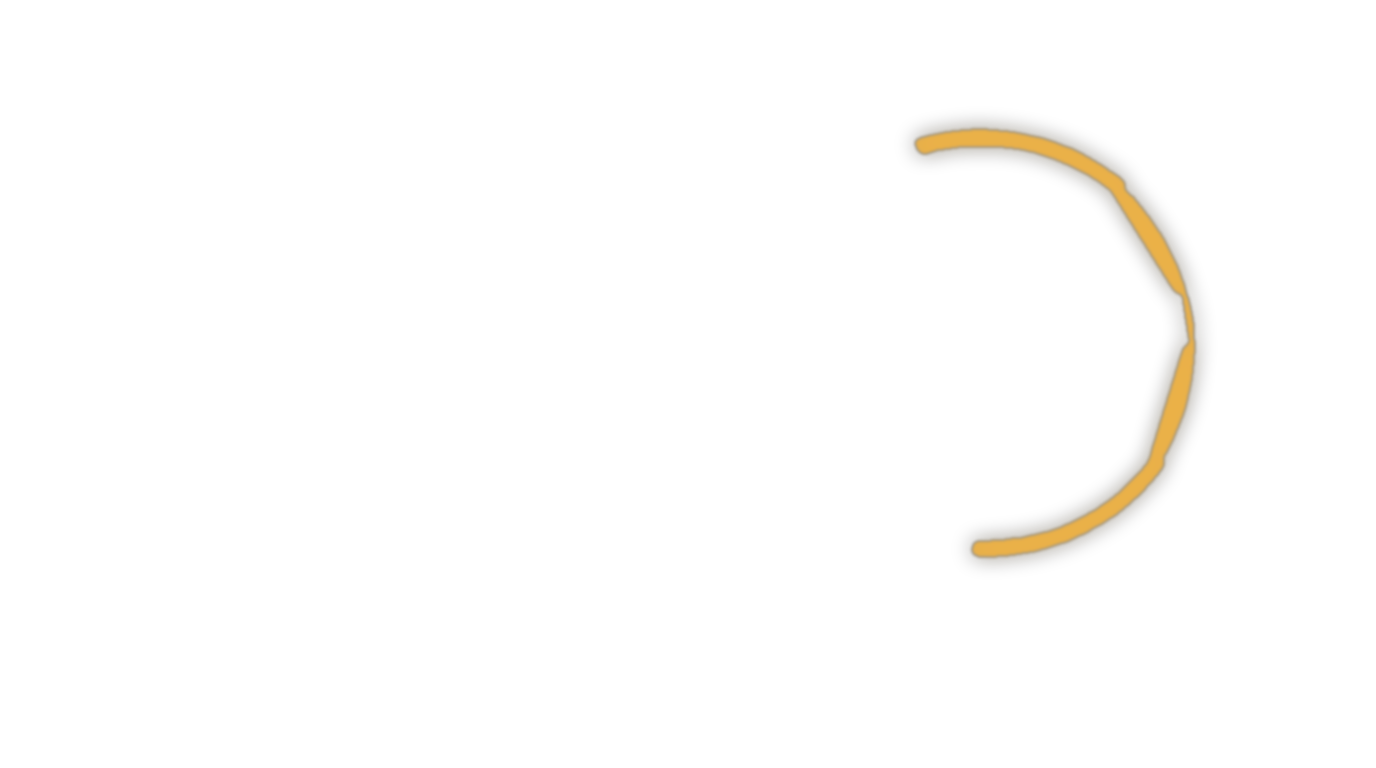
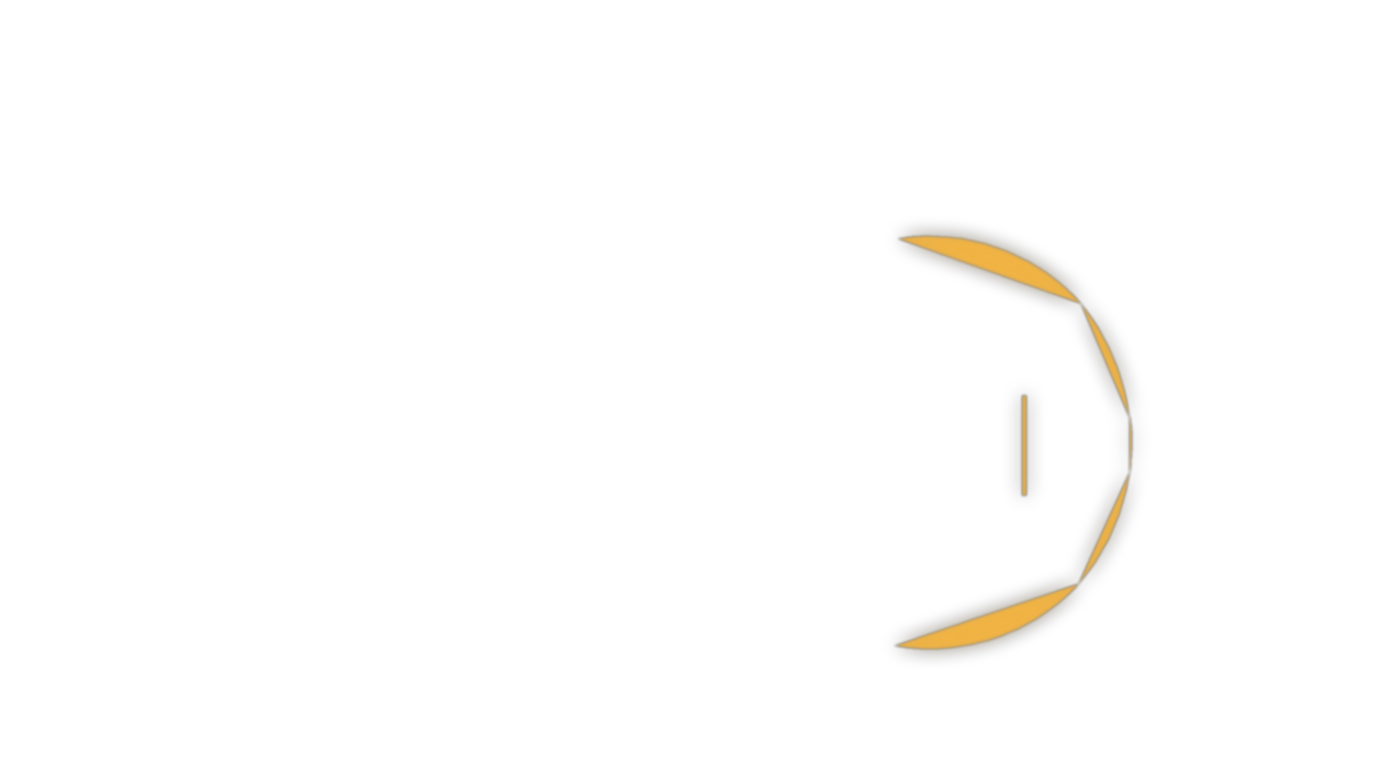
Venue blueprint regenerated from full Unreal geometry export
Replace the isometric render with a top-down plan generated from the
679-actor UE export (floors, pools, cabana/bungalow rooms, seating, palms,
TVs, stairs) in the gold technical style, light + dark. All LED screens are
drawn from exact mesh vertices — SR/SL curves, IMAG SR/SL, Center, DJ booth,
stage arch, outdoor towers, outdoor screen + arch — and the three zone glow
overlays (Main Interior, Arrival, TV x38) are rendered through the same
projection, so selection pulses are pixel-registered by construction.
Floating Pool/Lily Pad label pins removed (labels are baked in); auto-focus
regions updated from the generated masks.

Changed region(s): [[0.6562, 0.1562, 0.875, 0.875], [0.7188, 0.5, 0.75, 0.6562]]

diff --git a/src/components/creative-guide/InteractiveVenueMap.tsx b/src/components/creative-guide/InteractiveVenueMap.tsx
@@ -2,8 +2,10 @@ import React, { useCallback, useEffect, useRef, useState } from 'react';
 import { ZoomIn, ZoomOut, RotateCcw, Maximize2, X, MousePointerClick } from 'lucide-react';
 import { ALL_LED_ZONES, DISPLAY_TYPES } from '@/lib/creativeGuide';
 
-// Top-down venue blueprint, drawn in the mapping-card style (light + dark
-// colorways). Authored at 16:9 so the zone pins line up exactly.
+// Top-down venue blueprint generated from the Unreal geometry export by
+// scripts/venue-blueprint-from-ue.py (light + dark colorways). The zone glow
+// overlays are rendered through the same projection, so they are
+// pixel-registered with the blueprint.
 const BLUEPRINT_LIGHT = '/creative-guide/venue-blueprint-light.png';
 const BLUEPRINT_DARK = '/creative-guide/venue-blueprint-dark.png';
 
@@ -13,13 +15,6 @@ const ZONE_CARD_BASE = '/creative-guide/zone-cards';
 
 const zoneById = new Map(ALL_LED_ZONES.map((z) => [z.id, z]));
 const tvDisplay = DISPLAY_TYPES.find((d) => d.id === 'television');
-
-// Plain location labels — no mapping card.
-const LABEL_PINS: { t: string; x: number; y: number }[] = [
-  { t: 'Lily Pad', x: 20.0, y: 19.0 },
-  { t: 'Pool 2', x: 33.0, y: 47.0 },
-  { t: 'Pool', x: 50.0, y: 47.0 },
-];
 
 // Immersive zones. Each is one clickable pin (placed at the zone centroid)
 // plus optional member dots at each screen it groups. `screenIds` resolve
@@ -49,11 +44,7 @@ const ZONE_PINS: ZonePin[] = [
     label: 'Main Interior',
     kind: 'Interior LED · Full Wall',
     x: 83.0, y: 50.0,
-    regions: [
-      { cx: 74, cy: 19.5, rx: 9, ry: 8 },     // SR Curve — upper arc
-      { cx: 85, cy: 40, rx: 6.5, ry: 19 },    // IMAG SR / Center / IMAG SL
-      { cx: 78, cy: 68, rx: 9.5, ry: 10.5 },  // SL Curve — lower arc
-    ],
+    regions: [{ cx: 73.7, cy: 57.6, rx: 8.8, ry: 27.3 }],
     glowOverlay: true,
     screenIds: ['curves-sr', 'imag-sr', 'center', 'imag-sl', 'curves-sl'],
     blurb: 'The full main-room LED system — SR and SL curves wrapping the room into the IMAG side panels and center focal screen, for hero moments, logo reveals and live camera.',
@@ -63,7 +54,8 @@ const ZONE_PINS: ZonePin[] = [
     label: 'Arrival',
     kind: 'Exterior LED · Open-air',
     x: 90.0, y: 22.0,
-    regions: [{ cx: 60.5, cy: 45, rx: 3.5, ry: 16 }, { cx: 36, cy: 61.5, rx: 7, ry: 7.5 }],
+    regions: [{ cx: 45.2, cy: 59.9, rx: 11.7, ry: 18.9 }],
+    glowOverlay: true,
     screenIds: ['outdoor-sr', 'outdoor-sl', 'outdoor-arch'],
     blurb: 'Open-air entry screens facing the Las Vegas Strip — the first brand touchpoint for arriving guests.',
     members: [{ x: 75.0, y: 12.0 }, { x: 95.0, y: 50.0 }, { x: 88.0, y: 80.0 }],
@@ -73,7 +65,8 @@ const ZONE_PINS: ZonePin[] = [
     label: 'TV Displays',
     kind: 'TV / Narrowcasting',
     x: 45.0, y: 14.0,
-    regions: [{ cx: 45, cy: 14, rx: 8, ry: 7 }],
+    regions: [{ cx: 39, cy: 30, rx: 17.8, ry: 8 }],
+    glowOverlay: true,
     tv: true,
     blurb: 'High-definition TV displays throughout the venue for branded content and event visuals.',
   },
@@ -295,20 +288,6 @@ export function InteractiveVenueMap() {
             </div>
           ))}
 
-          {/* plain location labels */}
-          {renderOk && LABEL_PINS.map((p) => (
-            <div key={p.t} className="absolute pointer-events-none" style={{ left: `${p.x}%`, top: `${p.y}%` }}>
-              <div className="flex items-center gap-1" style={{ transform: `translate(-50%, -50%) scale(${1 / t.s})`, transformOrigin: 'left center' }}>
-                <span className="w-1.5 h-1.5 rounded-full bg-white/60 ring-2 ring-black/40 shrink-0" />
-                <span
-                  className="whitespace-nowrap text-[11px] font-medium text-white/80"
-                  style={{ textShadow: '0 1px 3px rgba(0,0,0,0.9), 0 0 2px rgba(0,0,0,0.9)' }}
-                >
-                  {p.t}
-                </span>
-              </div>
-            </div>
-          ))}
         </div>
       </div>
 

diff --git a/scripts/venue-blueprint-from-ue.py b/scripts/venue-blueprint-from-ue.py
@@ -1,0 +1,307 @@
+#!/usr/bin/env python3
+"""Venue Layout blueprint generated from the Unreal geometry export.
+
+Single source of truth: scripts/data/venue_plan.json (world-space footprints +
+LED mesh vertices from scripts/ue_export_plan.py). Renders:
+
+  public/creative-guide/venue-blueprint-light.png   (1376x768)
+  public/creative-guide/venue-blueprint-dark.png
+  public/creative-guide/zone-glows/{main,arrival,tv}.png
+
+…all through the same world->image projection, so the zone glow overlays are
+pixel-registered with the blueprint by construction. Also prints the zone
+region extents (percent) for ZONE_PINS auto-focus framing.
+
+Style: the site's gold technical-blueprint language (grid, double frame,
+serif title block, street labels), bright + dark colorways.
+"""
+import json
+import math
+from PIL import Image, ImageDraw, ImageFilter, ImageFont
+
+W, H = 1376, 768
+SS = 2  # supersample
+DATA = 'scripts/data/venue_plan.json'
+F_SERIF = '/usr/share/fonts/truetype/dejavu/DejaVuSerif.ttf'
+F_MONO = '/usr/share/fonts/truetype/dejavu/DejaVuSansMono.ttf'
+F_MONO_B = '/usr/share/fonts/truetype/dejavu/DejaVuSansMono-Bold.ttf'
+
+GOLD_GLOW = (255, 186, 60)
+
+CW = {
+    'light': dict(bg=(250, 244, 230), grid=(160, 106, 16, 20), line=(160, 106, 16),
+                  dim=(160, 106, 16, 140), faint=(160, 106, 16, 70), fill=(160, 106, 16, 38),
+                  screen=(160, 106, 16, 95), water=(96, 160, 175, 60), text=(58, 42, 16),
+                  sub=(58, 42, 16, 160)),
+    'dark': dict(bg=(14, 12, 8), grid=(232, 165, 31, 14), line=(232, 165, 31),
+                 dim=(232, 165, 31, 130), faint=(232, 165, 31, 60), fill=(232, 165, 31, 26),
+                 screen=(232, 165, 31, 95), water=(110, 190, 205, 55), text=(243, 227, 189),
+                 sub=(243, 227, 189, 150)),
+}
+
+ZONES = {
+    'main': ['LED_SR_Curves', 'LED_SL_Curves', 'LED_SR_IMAG', 'LED_SL_IMAG', 'LED_Center', 'LED_DJ_Booth'],
+    'arrival': ['outdoor_sr_box', 'outdoor_sl_box', 'LED_Outdoor_Screen', 'LED_Outdoor_Arch_Screen'],
+    'tv': [],  # filled with TV_* actors at load time
+}
+
+SCREEN_LABELS = {
+    'LED_SR_Curves': 'SR CURVE', 'LED_SL_Curves': 'SL CURVE', 'LED_SR_IMAG': 'IMAG SR',
+    'LED_SL_IMAG': 'IMAG SL', 'LED_Center': 'CENTER', 'LED_DJ_Booth': 'DJ BOOTH',
+    'LED_Outdoor_Screen': 'OUTDOOR SCREEN', 'LED_Outdoor_Arch_Screen': 'OUTDOOR ARCH',
+    'outdoor_sr_box': 'OUTDOOR SR', 'outdoor_sl_box': 'OUTDOOR SL',
+    'LED_Stage_Arch': 'STAGE ARCH',
+}
+
+
+def hull(pts):
+    pts = sorted(set((round(x, 1), round(y, 1)) for x, y in pts))
+    if len(pts) <= 2:
+        return list(pts)
+    def cross(o, a, b):
+        return (a[0]-o[0])*(b[1]-o[1]) - (a[1]-o[1])*(b[0]-o[0])
+    lo = []
+    for p in pts:
+        while len(lo) >= 2 and cross(lo[-2], lo[-1], p) <= 0:
+            lo.pop()
+        lo.append(p)
+    up = []
+    for p in reversed(pts):
+        while len(up) >= 2 and cross(up[-2], up[-1], p) <= 0:
+            up.pop()
+        up.append(p)
+    return lo[:-1] + up[:-1]
+
+
+class Plan:
+    def __init__(self):
+        d = json.load(open(DATA))
+        self.acts = {a['label']: a for a in d['actors']}
+        self.by_prefix = {}
+        for a in d['actors']:
+            self.by_prefix.setdefault(self._pre(a['label']), []).append(a)
+        ZONES['tv'] = [a['label'] for a in d['actors'] if self._pre(a['label']) == 'TV']
+
+        # bounds from floors + rooms + pools + screens (ignore stray props)
+        keep = []
+        for a in d['actors']:
+            p = self._pre(a['label'])
+            if p in ('Floor', 'floor_inside', 'Floor_outside', 'Rooms', 'pool', 'pool2') or 'LED' in a['label']:
+                keep.append(a)
+        xs, ys = [], []
+        for a in keep:
+            ox, oy, ex, ey, _, _ = a['bbox']
+            xs += [ox - ex, ox + ex]
+            ys += [oy - ey, oy + ey]
+        x0, x1, y0, y1 = min(xs), max(xs), min(ys), max(ys)
+        pad = 64 * SS
+        s = min((W * SS - 2 * pad) / (x1 - x0), (H * SS - 2 * pad) / (y1 - y0))
+        self.s = s
+        self.ox = (W * SS - (x1 - x0) * s) / 2 - x0 * s
+        self.oy = (H * SS - (y1 - y0) * s) / 2 - y0 * s
+
+    @staticmethod
+    def _pre(label):
+        import re
+        return re.sub(r'[_\s]*\d+$', '', label)
+
+    def P(self, wx, wy):
+        return (self.ox + wx * self.s, self.oy + wy * self.s)
+
+    def rect(self, a, grow=0):
+        ox, oy, ex, ey, _, _ = a['bbox']
+        x0, y0 = self.P(ox - ex, oy - ey)
+        x1, y1 = self.P(ox + ex, oy + ey)
+        return [x0 - grow, y0 - grow, x1 + grow, y1 + grow]
+
+    def vhull(self, a):
+        return hull([self.P(x, y) for x, y, z in a['verts']]) if a.get('verts') else None
+
+
+def draw_blueprint(plan, mode):
+    c = CW[mode]
+    img = Image.new('RGB', (W * SS, H * SS), c['bg'])
+    d = ImageDraw.Draw(img, 'RGBA')
+
+    # grid + frame
+    for gx in range(0, W * SS, 48 * SS):
+        d.line([(gx, 0), (gx, H * SS)], fill=c['grid'], width=SS)
+    for gy in range(0, H * SS, 48 * SS):
+        d.line([(0, gy), (W * SS, gy)], fill=c['grid'], width=SS)
+
+    A = plan.acts
+    pre = plan.by_prefix
+
+    # floors — faint footprint slabs
+    for label in ('floor_inside', 'floor_inside_002', 'Floor_outside'):
+        if label in A:
+            d.rounded_rectangle(plan.rect(A[label]), radius=14 * SS, fill=c['fill'], outline=c['faint'], width=SS)
+
+    # main-room circle (roof footprint as room outline)
+    if 'Roof' in A:
+        d.ellipse(plan.rect(A['Roof']), outline=c['dim'], width=2 * SS)
+
+    # pools
+    for label, name in (('pool', 'POOL'), ('pool2', 'POOL 2'), ('Circle', 'STAGE')):
+        if label not in A:
+            continue
+        r = plan.rect(A[label])
+        if label == 'Circle':
+            d.rounded_rectangle(r, radius=8 * SS, fill=c['fill'], outline=c['dim'], width=2 * SS)
+        else:
+            d.rounded_rectangle(r, radius=20 * SS, fill=c['water'], outline=c['dim'], width=2 * SS)
+        f = ImageFont.truetype(F_MONO, 11 * SS)
+        tb = d.textbbox((0, 0), name, font=f)
+        d.text(((r[0] + r[2]) / 2 - (tb[2] - tb[0]) / 2, (r[1] + r[3]) / 2 - (tb[3] - tb[1]) / 2),
+               name, font=f, fill=c['sub'])
+
+    # cabana / bungalow rooms
+    for a in pre.get('Rooms', []):
+        d.rectangle(plan.rect(a), outline=c['dim'], width=SS)
+
+    # stairs
+    if 'Stairs' in A:
+        r = plan.rect(A['Stairs'])
+        d.rectangle(r, outline=c['faint'], width=SS)
+        for i in range(1, 5):
+            yy = r[1] + (r[3] - r[1]) * i / 5
+            d.line([(r[0], yy), (r[2], yy)], fill=c['faint'], width=SS)
+
+    # furniture — seating, beds, tables
+    for p in ('Couch_APPLYSUBD', 'sofa_short4', 'sofa_short', 'sofa_long', 'SOFA_ROUNDED_FRAME', 'SOFA_INDOOR_L_SHAPE', 'bed', 'BED_TABLE'):
+        for a in pre.get(p, []):
+            r = plan.rect(a)
+            if (r[2] - r[0]) * (r[3] - r[1]) < (260 * SS) ** 2:
+                d.rectangle(r, outline=c['faint'], width=SS)
+    for p in ('table', 'INDOOR_TABLE'):
+        for a in pre.get(p, []):
+            r = plan.rect(a)
+            if (r[2] - r[0]) < 80 * SS:
+                d.ellipse(r, outline=c['faint'], width=SS)
+
+    # palms
+    for p in ('SM_Windmill_Palm', 'SM_Coconut_Tree'):
+        for a in pre.get(p, []):
+            x, y = plan.P(a['bbox'][0], a['bbox'][1])
+            rr = 9 * SS
+            for k in range(6):
+                ang = k * math.pi / 3
+                d.line([(x, y), (x + rr * math.cos(ang), y + rr * math.sin(ang))], fill=c['dim'], width=SS)
+            d.ellipse([x - 2 * SS, y - 2 * SS, x + 2 * SS, y + 2 * SS], fill=c['dim'])
+
+    # TVs — small solid markers
+    for label in ZONES['tv']:
+        a = A[label]
+        x, y = plan.P(a['bbox'][0], a['bbox'][1])
+        d.rectangle([x - 3 * SS, y - 3 * SS, x + 3 * SS, y + 3 * SS], fill=c['screen'], outline=c['line'], width=SS)
+
+    # sunray ceiling blades — faint spokes
+    for a in pre.get('LED_Sol_Rays_Sunray', []):
+        ph = plan.vhull(a)
+        if ph:
+            d.polygon(ph, fill=(c['faint'][0], c['faint'][1], c['faint'][2], 22), outline=c['faint'], width=SS)
+
+    # mirror ball
+    if 'Mirror_ball' in A:
+        x, y = plan.P(A['Mirror_ball']['bbox'][0], A['Mirror_ball']['bbox'][1])
+        d.ellipse([x - 6 * SS, y - 6 * SS, x + 6 * SS, y + 6 * SS], outline=c['line'], width=SS)
+
+    # LED screens — prominent
+    def draw_screen(label):
+        a = A.get(label)
+        if not a:
+            return None
+        ph = plan.vhull(a)
+        if ph and len(ph) >= 3:
+            d.polygon(ph, fill=c['screen'], outline=c['line'], width=2 * SS)
+            xs = [p[0] for p in ph]; ys = [p[1] for p in ph]
+        else:
+            r = plan.rect(a, grow=2 * SS)
+            d.rectangle(r, fill=c['screen'], outline=c['line'], width=2 * SS)
+            xs = [r[0], r[2]]; ys = [r[1], r[3]]
+        return (min(xs), min(ys), max(xs), max(ys))
+
+    boxes = {}
+    for label in SCREEN_LABELS:
+        b = draw_screen(label)
+        if b:
+            boxes[label] = b
+
+    # screen labels with small offsets to avoid overlap
+    f = ImageFont.truetype(F_MONO_B, 11 * SS)
+    OFF = {'LED_SR_Curves': (0, -16), 'LED_SL_Curves': (0, 16), 'LED_SR_IMAG': (30, -12),
+           'LED_SL_IMAG': (30, 12), 'LED_Center': (44, 0), 'LED_DJ_Booth': (-52, 0),
+           'LED_Outdoor_Screen': (0, -18), 'LED_Outdoor_Arch_Screen': (0, 16),
+           'outdoor_sr_box': (0, -16), 'outdoor_sl_box': (0, 16), 'LED_Stage_Arch': (0, -20)}
+    for label, b in boxes.items():
+        t = SCREEN_LABELS[label]
+        ox_, oy_ = OFF.get(label, (0, -14))
+        mx = (b[0] + b[2]) / 2 + ox_ * SS
+        my = (b[1] + b[3]) / 2 + oy_ * SS
+        tb = d.textbbox((0, 0), t, font=f)
+        d.text((mx - (tb[2] - tb[0]) / 2, my - (tb[3] - tb[1]) / 2), t, font=f, fill=c['text'])
+
+    # frame + title block + street labels
+    d.rectangle([24 * SS, 24 * SS, W * SS - 24 * SS, H * SS - 24 * SS], outline=c['line'], width=2 * SS)
+    d.rectangle([32 * SS, 32 * SS, W * SS - 32 * SS, H * SS - 32 * SS], outline=c['faint'], width=SS)
+    d.text((48 * SS, 46 * SS), 'SOLEIA · LAS VEGAS', font=ImageFont.truetype(F_MONO, 11 * SS), fill=c['sub'])
+    d.text((46 * SS, 64 * SS), 'Venue Layout', font=ImageFont.truetype(F_SERIF, 27 * SS), fill=c['line'])
+    d.text((48 * SS, 102 * SS), 'TOP-DOWN PLAN · GENERATED FROM UE GEOMETRY · NOT TO SCALE',
+           font=ImageFont.truetype(F_MONO, 9 * SS), fill=c['sub'])
+    fs = ImageFont.truetype(F_MONO, 10 * SS)
+    d.text((48 * SS, H * SS - 44 * SS), 'FLAMINGO ROAD', font=fs, fill=c['sub'])
+    d.text((W * SS - 220 * SS, H * SS - 44 * SS), 'SOLEIA CREATIVE GUIDE', font=fs, fill=c['sub'])
+
+    return img.resize((W, H), Image.LANCZOS)
+
+
+def draw_glows(plan):
+    for zone, labels in ZONES.items():
+        mask = Image.new('L', (W * SS, H * SS), 0)
+        d = ImageDraw.Draw(mask)
+        for label in labels:
+            a = plan.acts.get(label)
+            if not a:
+                continue
+            ph = plan.vhull(a)
+            if ph and len(ph) >= 3:
+                d.polygon(ph, fill=255)
+            else:
+                r = plan.rect(a, grow=2 * SS)
+                if zone == 'tv':
+                    x, y = plan.P(a['bbox'][0], a['bbox'][1])
+                    d.rectangle([x - 4 * SS, y - 4 * SS, x + 4 * SS, y + 4 * SS], fill=255)
+                else:
+                    d.rectangle(r, fill=255)
+        mask = mask.resize((W, H), Image.LANCZOS)
+        core = mask.filter(ImageFilter.GaussianBlur(1.2))
+        halo = mask.filter(ImageFilter.GaussianBlur(9))
+        out = Image.new('RGBA', (W, H), (0, 0, 0, 0))
+        out.paste(Image.new('RGBA', (W, H), GOLD_GLOW + (255,)), (0, 0), halo.point(lambda v: int(v * 0.55)))
+        out.paste(Image.new('RGBA', (W, H), GOLD_GLOW + (255,)), (0, 0), core.point(lambda v: int(v * 0.9)))
+        out.save(f'public/creative-guide/zone-glows/{zone}.png')
+
+        # region extents (percent) for auto-focus framing
+        bbox = mask.getbbox()
+        if bbox:
+            x0, y0, x1, y1 = bbox
+            print(f"{zone}: cx={(x0+x1)/2/W*100:.1f} cy={(y0+y1)/2/H*100:.1f} "
+                  f"rx={(x1-x0)/2/W*100:.1f} ry={(y1-y0)/2/H*100:.1f}")
+
+
+def main():
+    plan = Plan()
+    for mode in CW:
+        draw_blueprint(plan, mode).save(f'public/creative-guide/venue-blueprint-{mode}.png')
+        print('blueprint', mode, 'written')
+    draw_glows(plan)
+    # context label positions
+    for label in ('pool', 'pool2'):
+        a = plan.acts.get(label)
+        if a:
+            x, y = plan.P(a['bbox'][0], a['bbox'][1])
+            print(f"label {label}: x={x/SS/W*100*SS:.1f}% y={y/SS/H*100*SS:.1f}%")
+
+
+if __name__ == '__main__':
+    main()